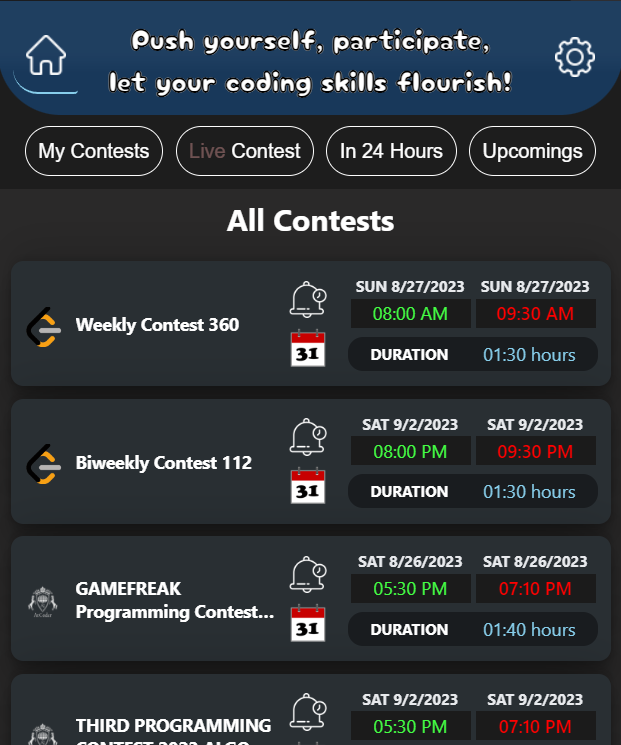
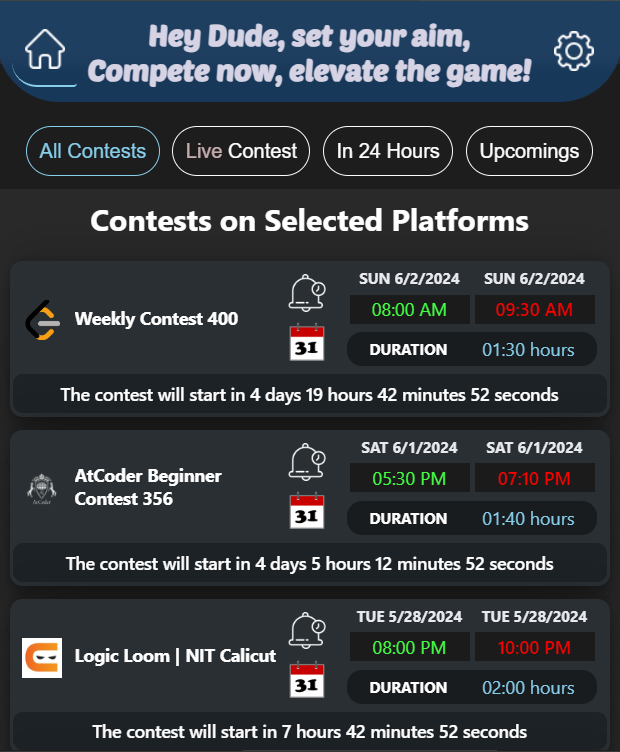
feat: Add contest countdown timer

diff --git a/src/components/TimeLeftToStartContest.jsx b/src/components/TimeLeftToStartContest.jsx
@@ -1,0 +1,59 @@
+import React, { useEffect, useState } from "react";
+
+const calculateTimeLeft = (contestTime) => {
+  const now = new Date();
+  const difference = contestTime - now;
+
+  let timeLeft = {};
+
+  if (difference > 0) {
+    timeLeft = {
+      days: Math.floor(difference / (1000 * 60 * 60 * 24)),
+      hours: Math.floor((difference / (1000 * 60 * 60)) % 24),
+      minutes: Math.floor((difference / 1000 / 60) % 60),
+      seconds: Math.floor((difference / 1000) % 60),
+    };
+  }
+
+  return timeLeft;
+};
+
+const TimeLeftToStartContest = ({ contestTime }) => {
+  const [timeLeft, setTimeLeft] = useState(calculateTimeLeft(contestTime));
+
+  useEffect(() => {
+    const timer = setInterval(() => {
+      setTimeLeft(calculateTimeLeft(contestTime));
+    }, 1000);
+
+    return () => clearInterval(timer); // Cleanup the interval on component unmount
+  }, [contestTime]);
+
+  const { days, hours, minutes, seconds } = timeLeft;
+
+  const countdownComponents = [
+    { value: days, label: "days" },
+    { value: hours, label: "hours" },
+    { value: minutes, label: "minutes" },
+    { value: seconds, label: "seconds" },
+  ];
+
+  const countdownString = countdownComponents
+    .filter(
+      (component) => component.value !== undefined && component.value !== 0
+    )
+    .map((component) => `${component.value} ${component.label}`)
+    .join(" ");
+
+  return (
+    <>
+      {countdownString ? (
+        <div className="timer">The contest will start in {countdownString}</div>
+      ) : (
+        <div className="timer">The contest has started!</div>
+      )}
+    </>
+  );
+};
+
+export default TimeLeftToStartContest;

diff --git a/src/index.css b/src/index.css
@@ -1,5 +1,6 @@
 @import url("https://fonts.googleapis.com/css2?family=Roboto+Slab:wght@500&display=swap");
-@import url("https://fonts.googleapis.com/css2?family=Cherry+Bomb+One&display=swap");
+/* @import url("https://fonts.googleapis.com/css2?family=Cherry+Bomb+One&display=swap"); */
+@import url("https://fonts.googleapis.com/css2?family=Montserrat&family=Poetsen+One&display=swap");
 
 * {
   margin: 0;
@@ -104,8 +105,10 @@ nav {
 }
 
 .contest-container {
-  height: 100px;
+  height: 125px;
   margin: 10px;
+  padding-top: 5px;
+  padding-bottom: 3px;
   /* background-color: rgb(23, 24, 26); */
   /* background-color: #333435; */
   /* background-color: #292f33; */
@@ -124,6 +127,19 @@ nav {
   /* background-color: #203641; */
   background-color: #2c2c2c;
   transition: background-color 0.5s ease;
+}
+
+.timer {
+  background: #02050852;
+  width: 99%;
+  margin-top: 6px;
+  font-weight: 500;
+  display: flex;
+  border-radius: 8px;
+  justify-content: center;
+  height: 31px;
+  align-items: center;
+  font-size: 14px;
 }
 
 h2 {
@@ -206,14 +222,15 @@ h2 {
   flex-direction: column;
   margin: auto;
   text-align: center;
-  font-weight: 300;
-  font-family: Cherry Bomb One, cursive;
+  font-family: "Poetsen One", sans-serif;
+  font-weight: 400;
+  font-style: normal;
   /* color: #fff; */
   color: #d5d3e4;
   font-size: 20px;
-  -webkit-text-stroke-width: 0.7px;
+  /* -webkit-text-stroke-width: 0.7px; */
   /* -webkit-text-stroke-color: #000000; */
-  -webkit-text-stroke-color: #120a41;
+  /* -webkit-text-stroke-color: #120a41; */
 }
 
 .menu {

diff --git a/src/components/ContestDetailsContainer.jsx b/src/components/ContestDetailsContainer.jsx
@@ -4,6 +4,7 @@ import remindOff from "../assets/remindme-off.png";
 import remindOn from "../assets/remindme-on.png";
 import calender from "../assets/calender.png";
 import { FormatedDateForNotification } from "../shared/dateTimeUtility.js";
+import TimeLeftToStartContest from "./TimeLeftToStartContest.jsx";
 
 const ContestDetailsContainer = (props) => {
   const {
@@ -15,6 +16,7 @@ const ContestDetailsContainer = (props) => {
     eTime,
     sDate,
     eDate,
+    timer,
     calStartTime,
     calEndTime,
     showNotification,
@@ -94,6 +96,7 @@ const ContestDetailsContainer = (props) => {
     setCalUrl(result.replace(/#/g, "%23"));
   };
 
+  const formattedDate = new Date(timer);
   return (
     <>
       <div className="contest-container flex-col">
@@ -157,6 +160,7 @@ const ContestDetailsContainer = (props) => {
             </div>
           </div>
         </div>
+        <TimeLeftToStartContest contestTime={formattedDate} />
       </div>
     </>
   );

diff --git a/src/components/ContestDetails.jsx b/src/components/ContestDetails.jsx
@@ -52,6 +52,7 @@ const ContestDetails = (props) => {
               eTime={formatEndTime(item.end_time)}
               sDate={formatDateText(item.start_time)}
               eDate={formatDateText(item.end_time)}
+              timer={item.start_time}
               calStartTime={calendarDateTime(item.start_time)}
               calEndTime={calendarDateTime(item.end_time)}
               showNotification={isValidForNotification(item.start_time)}

diff --git a/src/pages/Home.jsx b/src/pages/Home.jsx
@@ -107,7 +107,7 @@ const Home = () => {
           Upcomings
         </button>
       </div>
-
+      {console.log({ items })}
       <div className="main">
         <div className="container">
           <h2 className="center">{heading}</h2>
